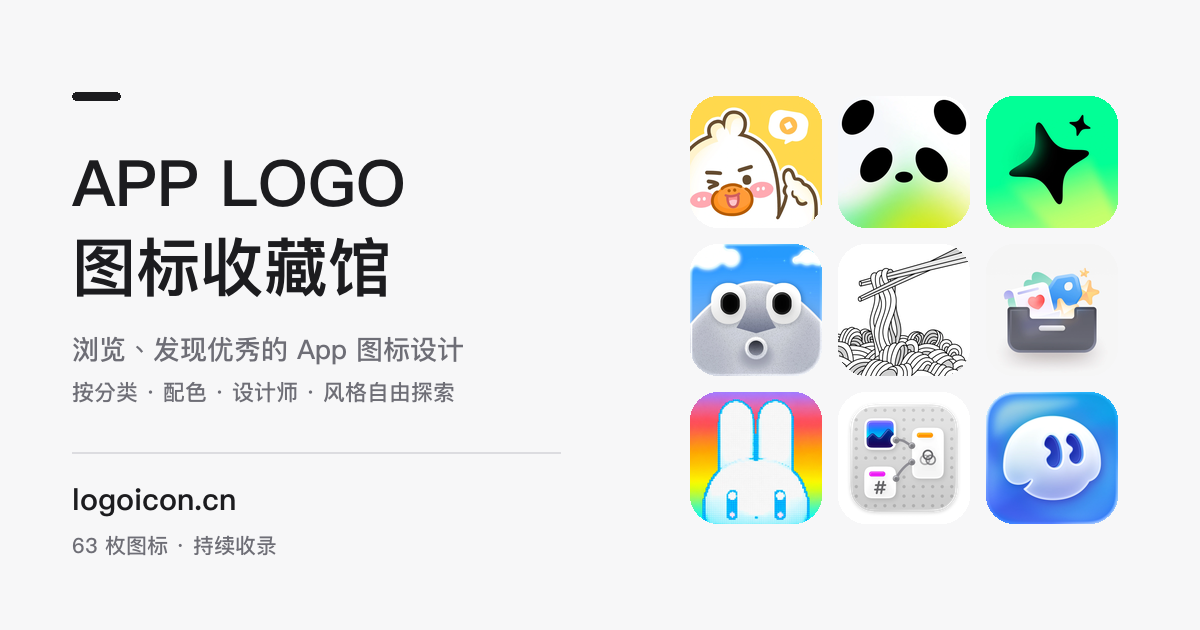
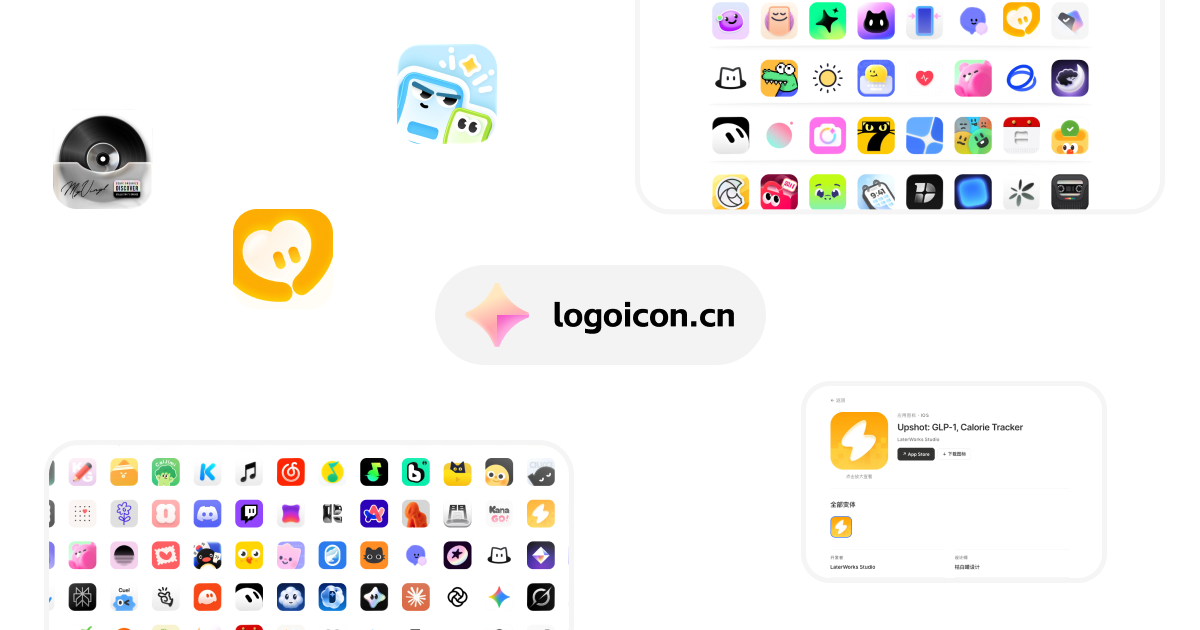
feat: 换用用户设计的分享图，并让 X / Twitter 显示大图链接卡

diff --git a/index.html b/index.html
@@ -529,8 +529,17 @@ html[dir=rtl] .hero,html[dir=rtl] .about-doc,html[dir=rtl] .page{text-align:righ
 <meta property="og:title" content="APP LOGO 图标收藏馆">
 <meta property="og:description" content="APP LOGO 图标收藏馆 — 浏览、发现优秀的 App 图标设计，按分类、配色与设计师自由探索。">
 <meta property="og:url" content="https://logoicon.cn/">
-<meta name="twitter:card" content="summary">
-<meta property="og:image" content="https://logoicon.cn/og.png">
+<meta property="og:image" content="https://logoicon.cn/og.png?v=2">
+<meta property="og:image:secure_url" content="https://logoicon.cn/og.png?v=2">
+<meta property="og:image:type" content="image/png">
+<meta property="og:image:width" content="1200">
+<meta property="og:image:height" content="630">
+<meta property="og:image:alt" content="APP LOGO 图标收藏馆 — 浏览、发现优秀的 App 图标设计">
+<meta name="twitter:card" content="summary_large_image">
+<meta name="twitter:title" content="APP LOGO 图标收藏馆">
+<meta name="twitter:description" content="APP LOGO 图标收藏馆 — 浏览、发现优秀的 App 图标设计，按分类、配色与设计师自由探索。">
+<meta name="twitter:image" content="https://logoicon.cn/og.png?v=2">
+<meta name="twitter:image:alt" content="APP LOGO 图标收藏馆 — 浏览、发现优秀的 App 图标设计">
 </head>
 <body class="lang-zh">
 <div id="nav"></div>
